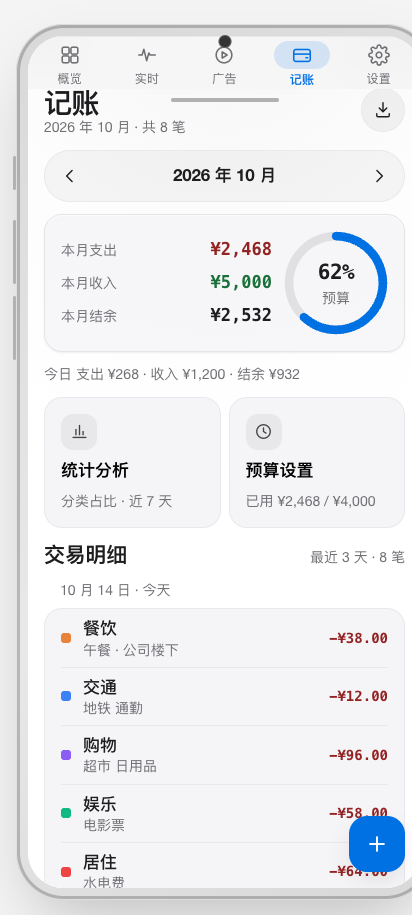
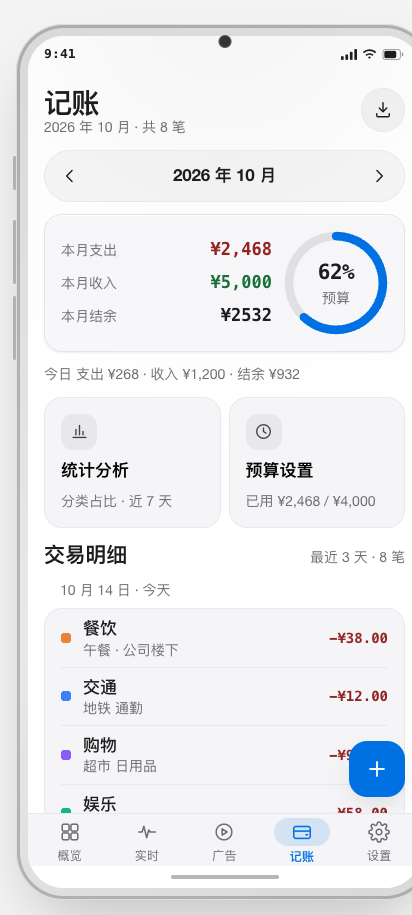
fix: 原型截图改为底部导航并更新 README 预览图

diff --git a/.open-design/08-prototype.html b/.open-design/08-prototype.html
@@ -1137,10 +1137,10 @@ body{
 }
 
 .tabbar{
-  position:relative;z-index:2;flex:0 0 auto;
+  position:absolute;left:0;right:0;bottom:var(--gesture-h);z-index:20;
   display:grid;grid-template-columns:repeat(5,1fr);gap:2px;
   padding:var(--space-1) var(--space-1) 0;
-  background:color-mix(in srgb,var(--surface) 84%,transparent);
+  background:var(--surface);
   -webkit-backdrop-filter:var(--glass-blur);backdrop-filter:var(--glass-blur);
   border-top:1px solid var(--border-soft);
 }
@@ -1160,7 +1160,7 @@ body{
 .tab[aria-selected="true"]{color:var(--accent);font-weight:600}
 .tab[aria-selected="true"] .tab-icon{background:color-mix(in srgb,var(--accent) 14%,transparent)}
 .tab:active .tab-icon{transform:scale(.92)}
-.gesture-bar{position:relative;z-index:2;flex:0 0 auto;height:var(--gesture-h);display:grid;place-items:center}
+.gesture-bar{position:absolute;left:0;right:0;bottom:0;z-index:20;height:var(--gesture-h);display:grid;place-items:center}
 .gesture-bar::after{
   content:"";width:108px;height:4px;border-radius:var(--radius-pill);
   background:var(--fg);opacity:.32;
@@ -6722,6 +6722,24 @@ button.row,button.list-row,a.row,a.list-row{font:inherit;font-size:var(--text-ba
   if (document.readyState === 'complete') setTimeout(jump, 80);
   else window.addEventListener('load', function () { setTimeout(jump, 80); });
   window.addEventListener('hashchange', jump);
+})();
+</script>
+<script>
+/* 布局修正：tabbar / gesture-bar 必须位于 device-screen 的 flex 流底部，
+   否则会被绝对定位的 device-screen 覆盖，渲染到屏幕顶部。 */
+(function () {
+  var nav = document.querySelector('.tabbar');
+  var gesture = document.querySelector('.gesture-bar');
+  var host = document.querySelector('#screenHost');
+  if (!nav || !gesture || !host) return;
+  var parent = host.parentElement;
+  [nav, gesture].forEach(function (el) {
+    el.style.position = 'relative';
+    el.style.left = 'auto';
+    el.style.right = 'auto';
+    el.style.bottom = 'auto';
+    parent.appendChild(el);
+  });
 })();
 </script>
 </body>
